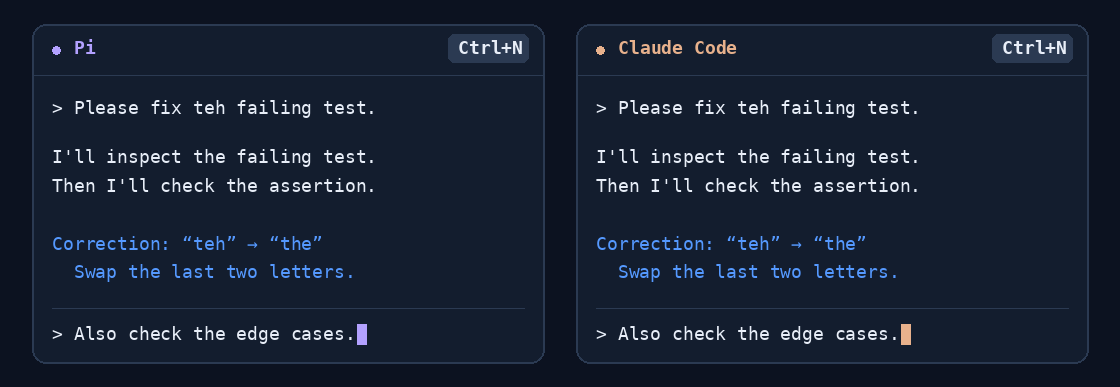
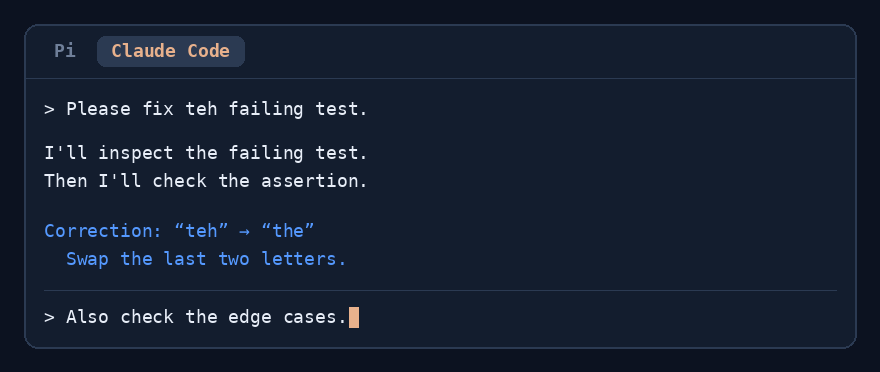
Show README demo one host and one step at a time
Replace the side-by-side panels with a single terminal that plays the
flow in Pi, then Claude Code. Flash the Ctrl+N key only when pressed,
and build the GIF palette from both hosts so the Pi accent survives.

diff --git a/scripts/generate-demo.py b/scripts/generate-demo.py
@@ -8,47 +8,58 @@ from pathlib import Path
 from PIL import Image, ImageDraw, ImageFont
 
 ROOT = Path(__file__).resolve().parents[1]
-WIDTH, HEIGHT = 1120, 387
+WIDTH, HEIGHT = 880, 372
 BG = "#0c1220"
 PANEL = "#131d2e"
 BORDER = "#2b3a52"
 TEXT = "#e8eef8"
-MUTED = "#a2b1c9"
+MUTED = "#6f7f99"
 BLUE = "#5599ff"
+HOSTS = (("Pi", "#b3a1ff"), ("Claude Code", "#e8b18c"))
 PROMPT = "Please fix teh failing test."
+ANSWER = ("I'll inspect the failing test.", "Then I'll check the assertion.")
 DRAFT = "Also check the edge cases."
-ANSWER = "I'll inspect the failing test."
-FOLLOWUP = "Then I'll check the assertion."
+CORRECTION = ("Correction: “teh” → “the”", "  Swap the last two letters.")
 
 
-def render(fonts, stage, typed="", answer="", followup="", draft=""):
+def render(fonts, host, typed="", sent=False, answer=("", ""), correction=False,
+           draft="", key=False):
     image = Image.new("RGB", (WIDTH, HEIGHT), BG)
     draw = ImageDraw.Draw(image)
 
     def text(x, y, value, color=TEXT, font="body"):
         draw.text((x, y), value, font=fonts[font], fill=color)
 
-    for x, host, accent in ((32, "Pi", "#b3a1ff"), (576, "Claude Code", "#e8b18c")):
-        right = x + 512
-        draw.rounded_rectangle((x, 24, right, 363), radius=14, fill=PANEL, outline=BORDER, width=2)
-        draw.ellipse((x + 20, 46, x + 28, 54), fill=accent)
-        text(x + 42, 37, host, accent, "bold")
-        if stage in (4, 5):
-            draw.rounded_rectangle((right - 96, 34, right - 16, 62), radius=6, fill=BORDER)
-            text(right - 86, 37, "Ctrl+N", font="bold")
-        draw.line((x + 1, 75, right - 1, 75), fill=BORDER)
-        if stage:
-            text(x + 20, 97, "> " + PROMPT)
-            text(x + 20, 146, answer)
-            text(x + 20, 175, followup)
-        if stage in (2, 3, 5):
-            text(x + 20, 233, "Correction: “teh” → “the”", BLUE)
-            text(x + 20, 261, "  Swap the last two letters.", BLUE)
-        draw.line((x + 20, 308, right - 20, 308), fill=BORDER)
-        entry = typed if stage == 0 else draft
-        text(x + 20, 323, "> " + entry)
-        cursor = x + 20 + draw.textlength("> " + entry, font=fonts["body"])
-        draw.rectangle((cursor + 2, 324, cursor + 11, 344), fill=accent)
+    left, right = 24, WIDTH - 24
+    draw.rounded_rectangle((left, 24, right, HEIGHT - 24), radius=14, fill=PANEL,
+                           outline=BORDER, width=2)
+    # Host tabs: the active one is filled and colored.
+    x = left + 16
+    for i, (name, color) in enumerate(HOSTS):
+        width = draw.textlength(name, font=fonts["bold"]) + 28
+        if i == host:
+            draw.rounded_rectangle((x, 36, x + width, 66), radius=8, fill=BORDER)
+        text(x + 14, 40, name, color if i == host else MUTED, "bold")
+        x += width + 8
+    draw.line((left + 1, 78, right - 1, 78), fill=BORDER)
+
+    if sent:
+        text(left + 20, 98, "> " + PROMPT)
+        text(left + 20, 142, answer[0])
+        text(left + 20, 170, answer[1])
+    if correction:
+        text(left + 20, 220, CORRECTION[0], BLUE)
+        text(left + 20, 248, CORRECTION[1], BLUE)
+
+    accent = HOSTS[host][1]
+    draw.line((left + 20, 290, right - 20, 290), fill=BORDER)
+    entry = draft if sent else typed
+    text(left + 20, 306, "> " + entry)
+    cursor = left + 20 + draw.textlength("> " + entry, font=fonts["body"])
+    draw.rectangle((cursor + 2, 307, cursor + 11, 327), fill=accent)
+    if key:
+        draw.rounded_rectangle((right - 104, 300, right - 20, 332), radius=7, fill=BLUE)
+        text(right - 92, 305, "Ctrl+N", BG, "bold")
     return image
 
 
@@ -58,41 +69,52 @@ def main():
     args = parser.parse_args()
     try:
         fonts = {
-            name: ImageFont.truetype(str(args.font_dir / filename), size)
-            for name, filename, size in (
-                ("body", "DejaVuSansMono.ttf", 18),
-                ("bold", "DejaVuSansMono-Bold.ttf", 18),
-            )
+            name: ImageFont.truetype(str(args.font_dir / filename), 18)
+            for name, filename in (("body", "DejaVuSansMono.ttf"),
+                                   ("bold", "DejaVuSansMono-Bold.ttf"))
         }
     except OSError:
         parser.error("DejaVu Sans Mono fonts not found; pass --font-dir with regular and bold TTF files")
 
     frames, durations = [], []
 
-    def add(stage, duration=100, **state):
-        frames.append(render(fonts, stage, **state))
+    def add(duration, **state):
+        frames.append(render(fonts, **state))
         durations.append(duration)
 
-    add(0, 700)
-    for n in range(2, len(PROMPT), 2):
-        add(0, typed=PROMPT[:n])
-    add(0, 500, typed=PROMPT)
-    for n in range(0, len(ANSWER), 3):
-        add(1, answer=ANSWER[:n])
-    add(1, 700, answer=ANSWER)
-    for n in range(0, len(FOLLOWUP), 3):
-        add(2, answer=ANSWER, followup=FOLLOWUP[:n])
-    add(2, 2000, answer=ANSWER, followup=FOLLOWUP)
-    for n in range(2, len(DRAFT), 2):
-        add(3, answer=ANSWER, followup=FOLLOWUP, draft=DRAFT[:n])
-    for stage, duration in ((3, 1200), (4, 2000), (5, 2500)):
-        add(stage, duration, answer=ANSWER, followup=FOLLOWUP, draft=DRAFT)
+    # One step at a time, once per host: prompt, answer, correction, draft,
+    # then Ctrl+N hides and recalls the correction while the draft stays.
+    for host in range(len(HOSTS)):
+        add(700, host=host)
+        for n in range(2, len(PROMPT), 2):
+            add(70, host=host, typed=PROMPT[:n])
+        add(500, host=host, typed=PROMPT)
+        for n in range(0, len(ANSWER[0]), 3):
+            add(70, host=host, sent=True, answer=(ANSWER[0][:n], ""))
+        for n in range(0, len(ANSWER[1]) + 1, 3):
+            add(70, host=host, sent=True, answer=(ANSWER[0], ANSWER[1][:n]))
+        done = dict(host=host, sent=True, answer=ANSWER)
+        add(600, **done)
+        add(2000, **done, correction=True)
+        for n in range(2, len(DRAFT), 2):
+            add(70, **done, correction=True, draft=DRAFT[:n])
+        done["draft"] = DRAFT
+        add(900, **done, correction=True)
+        add(350, **done, key=True)
+        add(1300, **done)
+        add(350, **done, key=True, correction=True)
+        add(2200, **done, correction=True)
 
     output = ROOT / "docs" / "assets"
     output.mkdir(parents=True, exist_ok=True)
     frames[-1].save(output / "demo.png")
     # One shared palette prevents color flicker; every frame is opaque.
-    palette = frames[-1].quantize(colors=96)
+    # Build it from both hosts' frames so each accent color is included.
+    sample = Image.new("RGB", (WIDTH, HEIGHT * 4))
+    for i, frame in enumerate((frames[len(frames) // 2 - 3], frames[len(frames) // 2 - 1],
+                               frames[-3], frames[-1])):
+        sample.paste(frame, (0, HEIGHT * i))
+    palette = sample.quantize(colors=96)
     indexed = [frame.quantize(palette=palette, dither=0) for frame in frames]
     indexed[0].save(output / "demo.gif", save_all=True, append_images=indexed[1:],
                     duration=durations, loop=0, optimize=False, disposal=1)

diff --git a/docs/guide.md b/docs/guide.md
@@ -368,8 +368,8 @@ neither correction instructions nor correction text enters the main model's hist
 
 The README GIF is a scripted illustration, not a recording of either host. It uses only
 synthetic text and makes no model calls or reads of local sessions, credentials, or logs.
-It illustrates asynchronous corrections, then hiding and recalling them without changing
-a draft. The static PNG provides a non-animated alternative.
+It plays the same steps once in Pi and once in Claude Code: a correction appears after the
+answer, then Ctrl+N hides and recalls it without changing the draft. The static PNG provides a non-animated alternative.
 
 To regenerate both assets, install Pillow in your Python environment, then run:
 
